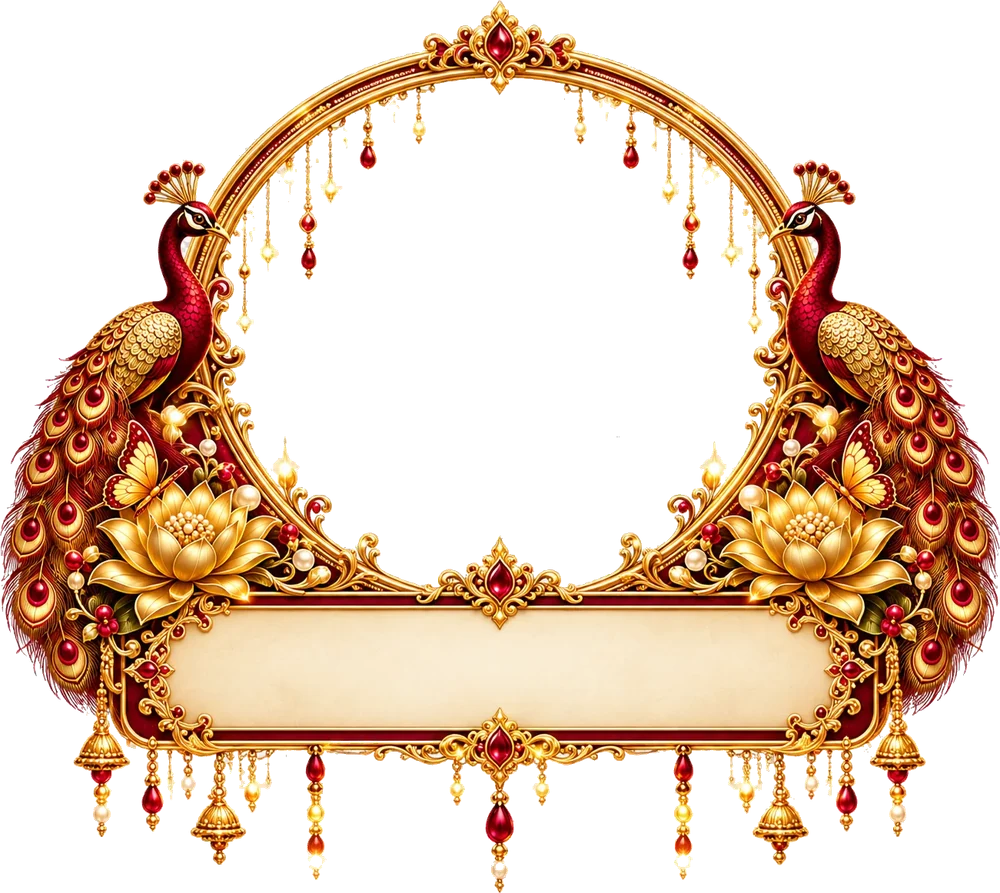
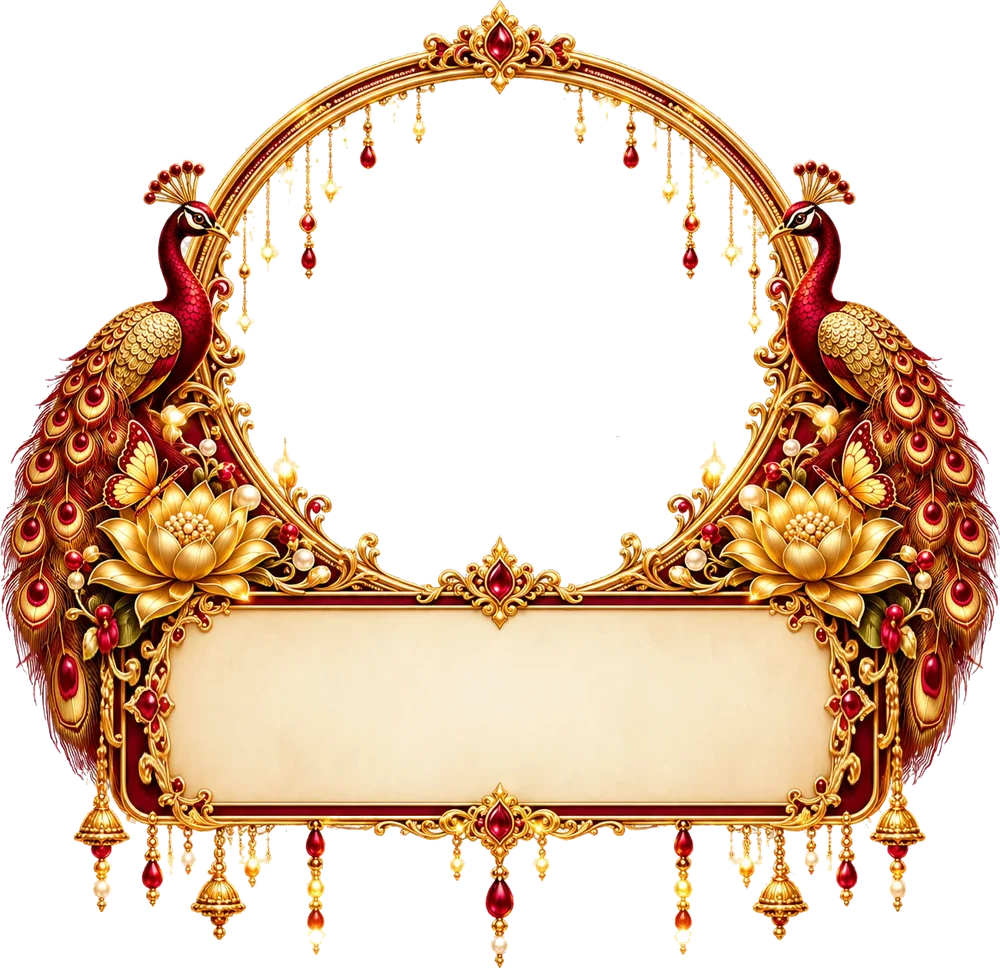
Taller Love Story board with larger lettering; temple at 97% on Parents and Countdown
- Love Story: the frame's cream plaque is 1.5x taller (plain seams repeated, scripts/story/grow.ts),
  title ~35px and story ~20px on a phone, all five fit also on 360x640
- Parents and Countdown: temple background at 97% strength (was 36% over ivory); ivory halo on the
  page number, arrows and Parents dots so they read on the sharper picture
- Countdown heading sized to the page so it never wraps into the palanquins
- QA: AC-19c (board lettering fits and is large), AC-18c (97% backgrounds); DECISIONS and README updated

diff --git a/scripts/story/grow.ts b/scripts/story/grow.ts
@@ -1,0 +1,105 @@
+/**
+ * Makes a picture taller inside a band of its rows by adding low-detail "seams" there (seam carving
+ * run in reverse: content-aware enlarging). A seam is a path of one pixel per column, from the left edge
+ * to the right, that runs through the plainest pixels it can find: the cream of the board, the velvet
+ * round it, the straight gold lines. Each seam is repeated once, so the plain areas grow and the
+ * ornaments (the gems, the curls, the lotus petals) keep their shape.
+ *
+ * Used by derive.ts to make the Love Story board taller, so its lettering can be larger. The band
+ * must hold only things that can stretch: the cream interior, not the gold rims above and below it.
+ */
+
+const lum = (r: number, g: number, b: number) => 0.3 * r + 0.59 * g + 0.11 * b;
+
+/** `src` is straight-alpha RGBA, `w` × `h`. Returns RGBA, `w` × (`h` + `extra`). `top` and `bottom` bound the band (inclusive). */
+export function growBand(src: Buffer, w: number, h: number, top: number, bottom: number, extra: number): Buffer {
+  const bh = bottom - top + 1;
+  if (extra > bh * 0.75) throw new Error(`growBand: ${extra} extra rows is too many for a band of ${bh}`);
+
+  const px = (x: number, r: number) => (top + r) * w + x;
+  // orig[x][r]: which band row of the original picture is now row r of column x
+  const orig: Int32Array[] = Array.from({ length: w }, () => Int32Array.from({ length: bh }, (_, r) => r));
+  const taken: Uint8Array[] = Array.from({ length: w }, () => new Uint8Array(bh));
+
+  const L = new Float32Array(w * bh), A = new Float32Array(w * bh);
+  for (let x = 0; x < w; x++)
+    for (let r = 0; r < bh; r++) {
+      const i = px(x, r) * 4;
+      L[x * bh + r] = lum(src[i], src[i + 1], src[i + 2]);
+      A[x * bh + r] = src[i + 3];
+    }
+
+  let rows = bh;
+  for (let s = 0; s < extra; s++) {
+    // Energy: how much the picture changes at each pixel, in the picture as it is after the seams taken so far
+    const E = new Float32Array(w * rows);
+    const l = (x: number, r: number) => L[x * bh + orig[x][r]];
+    const a = (x: number, r: number) => A[x * bh + orig[x][r]];
+    for (let x = 0; x < w; x++) {
+      const xl = Math.max(0, x - 1), xr = Math.min(w - 1, x + 1);
+      for (let r = 0; r < rows; r++) {
+        const ru = Math.max(0, r - 1), rd = Math.min(rows - 1, r + 1);
+        E[x * rows + r] =
+          Math.abs(l(xr, r) - l(xl, r)) + Math.abs(l(x, rd) - l(x, ru)) + 0.5 * (Math.abs(a(xr, r) - a(xl, r)) + Math.abs(a(x, rd) - a(x, ru)));
+      }
+    }
+    // The cheapest left-to-right path
+    const M = new Float32Array(w * rows);
+    for (let r = 0; r < rows; r++) M[r] = E[r];
+    for (let x = 1; x < w; x++)
+      for (let r = 0; r < rows; r++) {
+        let best = M[(x - 1) * rows + r];
+        if (r > 0) best = Math.min(best, M[(x - 1) * rows + r - 1]);
+        if (r < rows - 1) best = Math.min(best, M[(x - 1) * rows + r + 1]);
+        M[x * rows + r] = E[x * rows + r] + best;
+      }
+    let r = 0;
+    for (let k = 1; k < rows; k++) if (M[(w - 1) * rows + k] < M[(w - 1) * rows + r]) r = k;
+    const seam = new Int32Array(w);
+    for (let x = w - 1; x >= 0; x--) {
+      seam[x] = r;
+      if (x > 0) {
+        let br = r, bv = M[(x - 1) * rows + r];
+        if (r > 0 && M[(x - 1) * rows + r - 1] < bv) (bv = M[(x - 1) * rows + r - 1]), (br = r - 1);
+        if (r < rows - 1 && M[(x - 1) * rows + r + 1] < bv) (bv = M[(x - 1) * rows + r + 1]), (br = r + 1);
+        r = br;
+      }
+    }
+    // Take it out
+    for (let x = 0; x < w; x++) {
+      const col = orig[x], out = new Int32Array(rows - 1);
+      taken[x][col[seam[x]]] = 1;
+      out.set(col.subarray(0, seam[x]), 0);
+      out.set(col.subarray(seam[x] + 1), seam[x]);
+      orig[x] = out;
+    }
+    rows--;
+  }
+
+  // Put the seams back, each pixel on a seam twice (the second a blend with the pixel below it)
+  const out = Buffer.alloc(w * (h + extra) * 4);
+  const put = (x: number, y: number, rgba: number[]) => {
+    const o = (y * w + x) * 4;
+    out[o] = rgba[0]; out[o + 1] = rgba[1]; out[o + 2] = rgba[2]; out[o + 3] = rgba[3];
+  };
+  const get = (x: number, y: number) => {
+    const i = (y * w + x) * 4;
+    return [src[i], src[i + 1], src[i + 2], src[i + 3]];
+  };
+  const blend = (p: number[], q: number[]) => {
+    const wp = p[3] + 1e-6, wq = q[3] + 1e-6;
+    const al = (p[3] + q[3]) / 2;
+    return [(p[0] * wp + q[0] * wq) / (wp + wq), (p[1] * wp + q[1] * wq) / (wp + wq), (p[2] * wp + q[2] * wq) / (wp + wq), al];
+  };
+  for (let x = 0; x < w; x++) {
+    let y = 0;
+    for (let k = 0; k < top; k++) put(x, y++, get(x, k));
+    for (let r = 0; r < bh; r++) {
+      const p = get(x, top + r);
+      put(x, y++, p);
+      if (taken[x][r]) put(x, y++, blend(p, get(x, Math.min(h - 1, top + r + 1))));
+    }
+    for (let k = bottom + 1; k < h; k++) put(x, y++, get(x, k));
+  }
+  return out;
+}

diff --git a/scripts/story/derive.ts b/scripts/story/derive.ts
@@ -19,6 +19,7 @@
 import { mkdirSync, readdirSync, writeFileSync } from 'node:fs';
 import { join } from 'node:path';
 import sharp from 'sharp';
+import { growBand } from './grow.ts';
 
 const dir = join(process.cwd(), 'src/assets/story');
 const photos = join(process.cwd(), 'public/photos/story');
@@ -198,13 +199,29 @@ const mask = Buffer.alloc(fw * fh * 4, 255);
 let ox0 = W, ox1 = 0, oy0 = H, oy1 = 0;
 for (let y = 0; y < fh; y++) for (let x = 0; x < fw; x++) if (mask[(y * fw + x) * 4 + 3] > 128) (ox0 = Math.min(ox0, x)), (ox1 = Math.max(ox1, x)), (oy0 = Math.min(oy0, y)), (oy1 = Math.max(oy1, y));
 
-const trimmed = Buffer.alloc(fw * fh * 4);
-for (let y = 0; y < fh; y++) rgba.copy(trimmed, y * fw * 4, ((y0 + y) * W + x0) * 4, ((y0 + y) * W + x0 + fw) * 4);
+const cut = Buffer.alloc(fw * fh * 4);
+for (let y = 0; y < fh; y++) rgba.copy(cut, y * fw * 4, ((y0 + y) * W + x0) * 4, ((y0 + y) * W + x0 + fw) * 4);
+
+// The board is made taller (the client found its lettering too small): seams of plain pixels inside the
+// cream plaque are repeated (grow.ts), so the cream, the velvet and the straight gold lines grow and the
+// gems and curls keep their shape. Sizes are in pixels of the 1000-wide result. The ring and its pendants
+// lie above the plaque, the bells and drops hang below it and move down with its foot.
+const BOARD = { grow: 75, margin: 4 };
+const toSrc = (v: number) => Math.round((v / 1000) * fw);
+const bandTop = py0 - y0 + toSrc(BOARD.margin), bandBottom = py1 - y0 - toSrc(BOARD.margin);
+const extra = toSrc(BOARD.grow);
+const trimmed = growBand(cut, fw, fh, bandTop, bandBottom, extra);
+const fh2 = fh + extra;
+// The photographs' mask stops above the plaque, so it just gains transparent rows at its foot
+for (let y = bandTop; y < fh; y++) for (let x = 0; x < fw; x++) if (mask[(y * fw + x) * 4 + 3] > 0) throw new Error('the ring opening reaches the board');
+const maskTall = Buffer.alloc(fw * fh2 * 4, 255);
+for (let y = 0; y < fh2; y++) for (let x = 0; x < fw; x++) maskTall[(y * fw + x) * 4 + 3] = y < fh ? mask[(y * fw + x) * 4 + 3] : 0;
+
 const OUT_W = 1000;
-const outH = Math.round((fh / fw) * OUT_W);
-const frameBuf = await sharp(trimmed, { raw: { width: fw, height: fh, channels: 4 } }).resize(OUT_W, outH, { kernel: 'lanczos3' }).webp({ quality: 88, alphaQuality: 95, effort: 6 }).toBuffer();
+const outH = Math.round((fh2 / fw) * OUT_W);
+const frameBuf = await sharp(trimmed, { raw: { width: fw, height: fh2, channels: 4 } }).resize(OUT_W, outH, { kernel: 'lanczos3' }).webp({ quality: 88, alphaQuality: 95, effort: 6 }).toBuffer();
 writeFileSync(join(dir, 'frame.webp'), frameBuf);
-const maskBuf = await sharp(mask, { raw: { width: fw, height: fh, channels: 4 } }).resize(Math.round(OUT_W / 2), Math.round(outH / 2)).blur(1.2).webp({ quality: 80, alphaQuality: 90 }).toBuffer();
+const maskBuf = await sharp(maskTall, { raw: { width: fw, height: fh2, channels: 4 } }).resize(Math.round(OUT_W / 2), Math.round(outH / 2)).blur(1.2).webp({ quality: 80, alphaQuality: 90 }).toBuffer();
 writeFileSync(join(dir, 'opening.webp'), maskBuf);
 const pct = (v: number, total: number) => +((v / total) * 100).toFixed(3);
 writeFileSync(
@@ -213,9 +230,9 @@ writeFileSync(
     {
       width: OUT_W,
       height: outH,
-      ring: { cx: pct(cx - x0, fw), cy: pct(cy - y0, fh), r: pct(ring, fw) },
-      opening: { x: pct(ox0, fw), y: pct(oy0, fh), w: pct(ox1 - ox0 + 1, fw), h: pct(oy1 - oy0 + 1, fh) },
-      board: { x: pct(px0 - x0, fw), y: pct(py0 - y0, fh), w: pct(px1 - px0 + 1, fw), h: pct(py1 - py0 + 1, fh) },
+      ring: { cx: pct(cx - x0, fw), cy: pct(cy - y0, fh2), r: pct(ring, fw) },
+      opening: { x: pct(ox0, fw), y: pct(oy0, fh2), w: pct(ox1 - ox0 + 1, fw), h: pct(oy1 - oy0 + 1, fh2) },
+      board: { x: pct(px0 - x0, fw), y: pct(py0 - y0, fh2), w: pct(px1 - px0 + 1, fw), h: pct(py1 - py0 + 1 + extra, fh2) },
     },
     null,
     2,

diff --git a/tests/e2e/book.qa.ts b/tests/e2e/book.qa.ts
@@ -614,6 +614,69 @@ async function main() {
     await ctx.close();
   }
 
+  /* AC-19c the Love Story board is tall and wide enough for large lettering: every milestone's title and story
+     fit inside it (nothing clipped, nothing running into the gold curls at its ends), the title is at least 28px
+     and the story at least 16.5px on a phone, and the frame still clears the dots and arrows on a small phone */
+  {
+    const rows: Record<string, unknown>[] = [];
+    let ok = true;
+    for (const [w, h] of [[390, 844], [360, 640]] as const) {
+      const ctx = await mobileContext(browser, w, h);
+      const page = await ctx.newPage();
+      await page.goto(BASE);
+      await page.evaluate(() => sessionStorage.setItem('rdv:opened', '1'));
+      await page.goto(`${BASE}#love-story`);
+      await settle(page);
+      await page.waitForTimeout(1500);
+      const r = await page.evaluate(() => {
+        const board = document.querySelector<HTMLElement>('#love-story .ls__board')!;
+        const b = board.getBoundingClientRect();
+        const cs = getComputedStyle(board);
+        const entries = [...board.querySelectorAll<HTMLElement>('.ls__entry')];
+        // Show each entry in turn, without waiting for the fade, and measure its lettering against the cream's inner box
+        const saved = entries.map((e) => e.className);
+        const fits = entries.map((e) => {
+          entries.forEach((o) => o.classList.toggle('is-active', o === e));
+          const t = e.querySelector<HTMLElement>('.ls__milestone')!.getBoundingClientRect();
+          const st = e.querySelector<HTMLElement>('.ls__story')!.getBoundingClientRect();
+          const side = parseFloat(cs.paddingLeft);
+          return t.top >= b.top && st.bottom <= b.bottom && t.left >= b.left + side - 1 && t.right <= b.right - side + 1 && st.left >= b.left + side - 1 && st.right <= b.right - side + 1;
+        });
+        entries.forEach((e, i) => (e.className = saved[i]));
+        const f = document.querySelector<HTMLElement>('#love-story .ls__frame')!.getBoundingClientRect();
+        const c = document.querySelector<HTMLElement>('#love-story .ls__controls')!.getBoundingClientRect();
+        return {
+          boardH: Math.round(b.height),
+          title: parseFloat(getComputedStyle(entries[0].querySelector('.ls__milestone')!).fontSize),
+          story: parseFloat(getComputedStyle(entries[0].querySelector('.ls__story')!).fontSize),
+          fits,
+          clears: f.bottom <= c.top + 1,
+        };
+      });
+      rows.push({ w, h, ...r });
+      if (!(r.fits.every(Boolean) && r.title >= (w === 390 ? 30 : 28) && r.story >= 16.5 && r.clears)) ok = false;
+      await ctx.close();
+    }
+    check('AC-19c', 'Love Story board: all five titles and stories fit inside it in large lettering, and the frame clears the controls on a small phone', ok, JSON.stringify(rows));
+  }
+
+  /* AC-18c the temple behind the Parents and Countdown pages is shown at 97% strength (the client found a third too white) */
+  {
+    const ctx = await mobileContext(browser);
+    const page = await ctx.newPage();
+    await page.goto(BASE);
+    await page.evaluate(() => sessionStorage.setItem('rdv:opened', '1'));
+    await page.goto(`${BASE}#countdown`);
+    await settle(page);
+    await page.waitForTimeout(1200);
+    const op = await page.evaluate(() => ({
+      family: Number(getComputedStyle(document.querySelector('#family .fm__bg')!).opacity),
+      countdown: Number(getComputedStyle(document.querySelector('#countdown .cd__bg')!).opacity),
+    }));
+    check('AC-18c', 'Parents and Countdown: the temple background at 97% strength', op.family >= 0.96 && op.countdown >= 0.96, JSON.stringify(op));
+    await ctx.close();
+  }
+
   /* On a phone the desktop background is never built: no canvases, and its pictures are not requested */
   {
     const ctx = await mobileContext(browser);

diff --git a/src/styles/chrome.css b/src/styles/chrome.css
@@ -80,6 +80,8 @@ html:not(.mode-scroll) .chrome-book-view {
 .folio button svg {
   width: 20px;
   height: 20px;
+  /* a soft ivory halo, so the arrows read clearly on busy photographs as well as pale pages */
+  filter: drop-shadow(0 0 2px rgba(255, 249, 238, 0.95)) drop-shadow(0 0 5px rgba(255, 249, 238, 0.85));
 }
 
 .folio button:disabled {
@@ -93,6 +95,7 @@ html:not(.mode-scroll) .chrome-book-view {
   font: 500 var(--t-folio) / 1 var(--font-royal);
   letter-spacing: 0.2em;
   color: var(--gold-text);
+  text-shadow: 0 0 2px rgba(255, 249, 238, 0.95), 0 0 6px rgba(255, 249, 238, 0.9), 0 0 12px rgba(255, 249, 238, 0.7);
 }
 
 .folio__number::before {

diff --git a/DECISIONS.md b/DECISIONS.md
@@ -811,3 +811,18 @@ The client looked at the pages with the courtyard panels' people and said they l
 
 - `npm run qa:book`: 74/74 checks pass. `npx vitest run`: 58 pass. `npx astro check`: 0 errors.
 
+
+## 30 October 2026 — A taller, larger Love Story board; clearer Parents and Countdown backgrounds
+
+The client said the Love Story board's lettering was too small to read (the title and the story line under it), and asked for a wider or taller board and larger letters; and that the temple behind the Parents and Countdown pages was too white, asking for 97–98%.
+
+### Decisions
+
+1. **A taller board, in the frame's own art.** The cream plaque of the red-and-gold peacock frame is now 1.5 times as tall (the frame picture grew from 1000 × 893 to 1000 × 968). Plain seams inside the plaque (cream, velvet, the straight gold lines) are repeated, so the board grows and the gems, curls and bells keep their shape and sharpness (`scripts/story/grow.ts`, run by `npm run story:assets`; the size is `BOARD.grow` in `scripts/story/derive.ts`). The ring, the photographs and the peacocks are unchanged; the bells and drops under the plaque moved down with its foot. The frame is already as wide as it can be without cutting the gold at its ends (138% of the page), so the board gained height, not width.
+2. **Larger lettering.** The milestone title is about 35 px on a 430 px-wide phone (it was 24 px) and the story line about 20 px (it was 15 px), the story in bold italic and a darker brown. A line that is too long wraps to two lines, evenly balanced; all five fit inside the board with room left, also on a small 360 × 640 phone, where the frame still clears the dots and arrows.
+3. **Parents and Countdown backgrounds at 97%.** The temple picture was shown at 36% over ivory (the earlier "90–95% see-through" request, read the wrong way round); it is now 97%. The maroon boards and gold frames still stand out. Because the page-number group, its arrows and the Parents dots were hard to see on the sharper floor, they now have a soft ivory halo (all pages; on pale pages it is not noticeable). The ivory veil behind the Countdown heading is unchanged.
+4. **Countdown heading never wraps.** On a slightly wider phone the first line ("Counting down to the") wrapped and its second line ran into the first palanquin (seen in the client's screenshot). Its size now follows the page's width, so it always fits on one line, clear of the Contents button.
+
+### Results
+
+- `npm run qa:book`: 76/76 checks pass (new AC-19c: the board's lettering fits and is large at 390 × 844 and 360 × 640; AC-18c: the Parents and Countdown backgrounds are at 97%). `npx vitest run`: 58 pass. `npx astro check`: 0 errors.

diff --git a/README.md b/README.md
@@ -94,7 +94,7 @@ npm run perf               # Lighthouse mobile on the cover of the built site (r
 | `src/components/pages/` | One component per page |
 | `src/assets/opening/` | The opening's photographs (`source/`), their measurements (`scene.json`) and the layers made from them |
 | `src/assets/stage/` | The desktop background and the Love Story page's background: the client's cream temple picture (`source/`), its two sides, plain middle and swaying garlands, lamps and bells (`npm run stage:assets`, `scripts/stage/`) |
-| `src/assets/story/` | The Love Story page's red-and-gold peacock frame and the couple's photographs (`source/`) (`npm run story:assets`, `scripts/story/`) |
+| `src/assets/story/` | The Love Story page's red-and-gold peacock frame and the couple's photographs (`source/`); the frame's board is made taller by repeating plain seams, `grow.ts` (`npm run story:assets`, `scripts/story/`) |
 | `src/assets/ceremony/` | The Wedding Ceremony page: the client's real golden mandapam picture (`source/`), cut into the pieces that arrive one by one (`npm run ceremony:assets`, `scripts/ceremony/`); the celebration is `src/motion/celebrate.ts` and its music `src/lib/fanfare.ts` |
 | `src/assets/welcome/` | The Welcome page's courtyard and couple (`source/`), their measurements (`scene.json`) and the layers made from them (`npm run welcome:assets`, `scripts/welcome/`) |
 | `src/assets/save-the-date/` | The Save the Date page's couple-with-board picture and curtain (`source/`) and the layers made from them (`npm run save-the-date:assets`, `scripts/save-the-date/`) |
